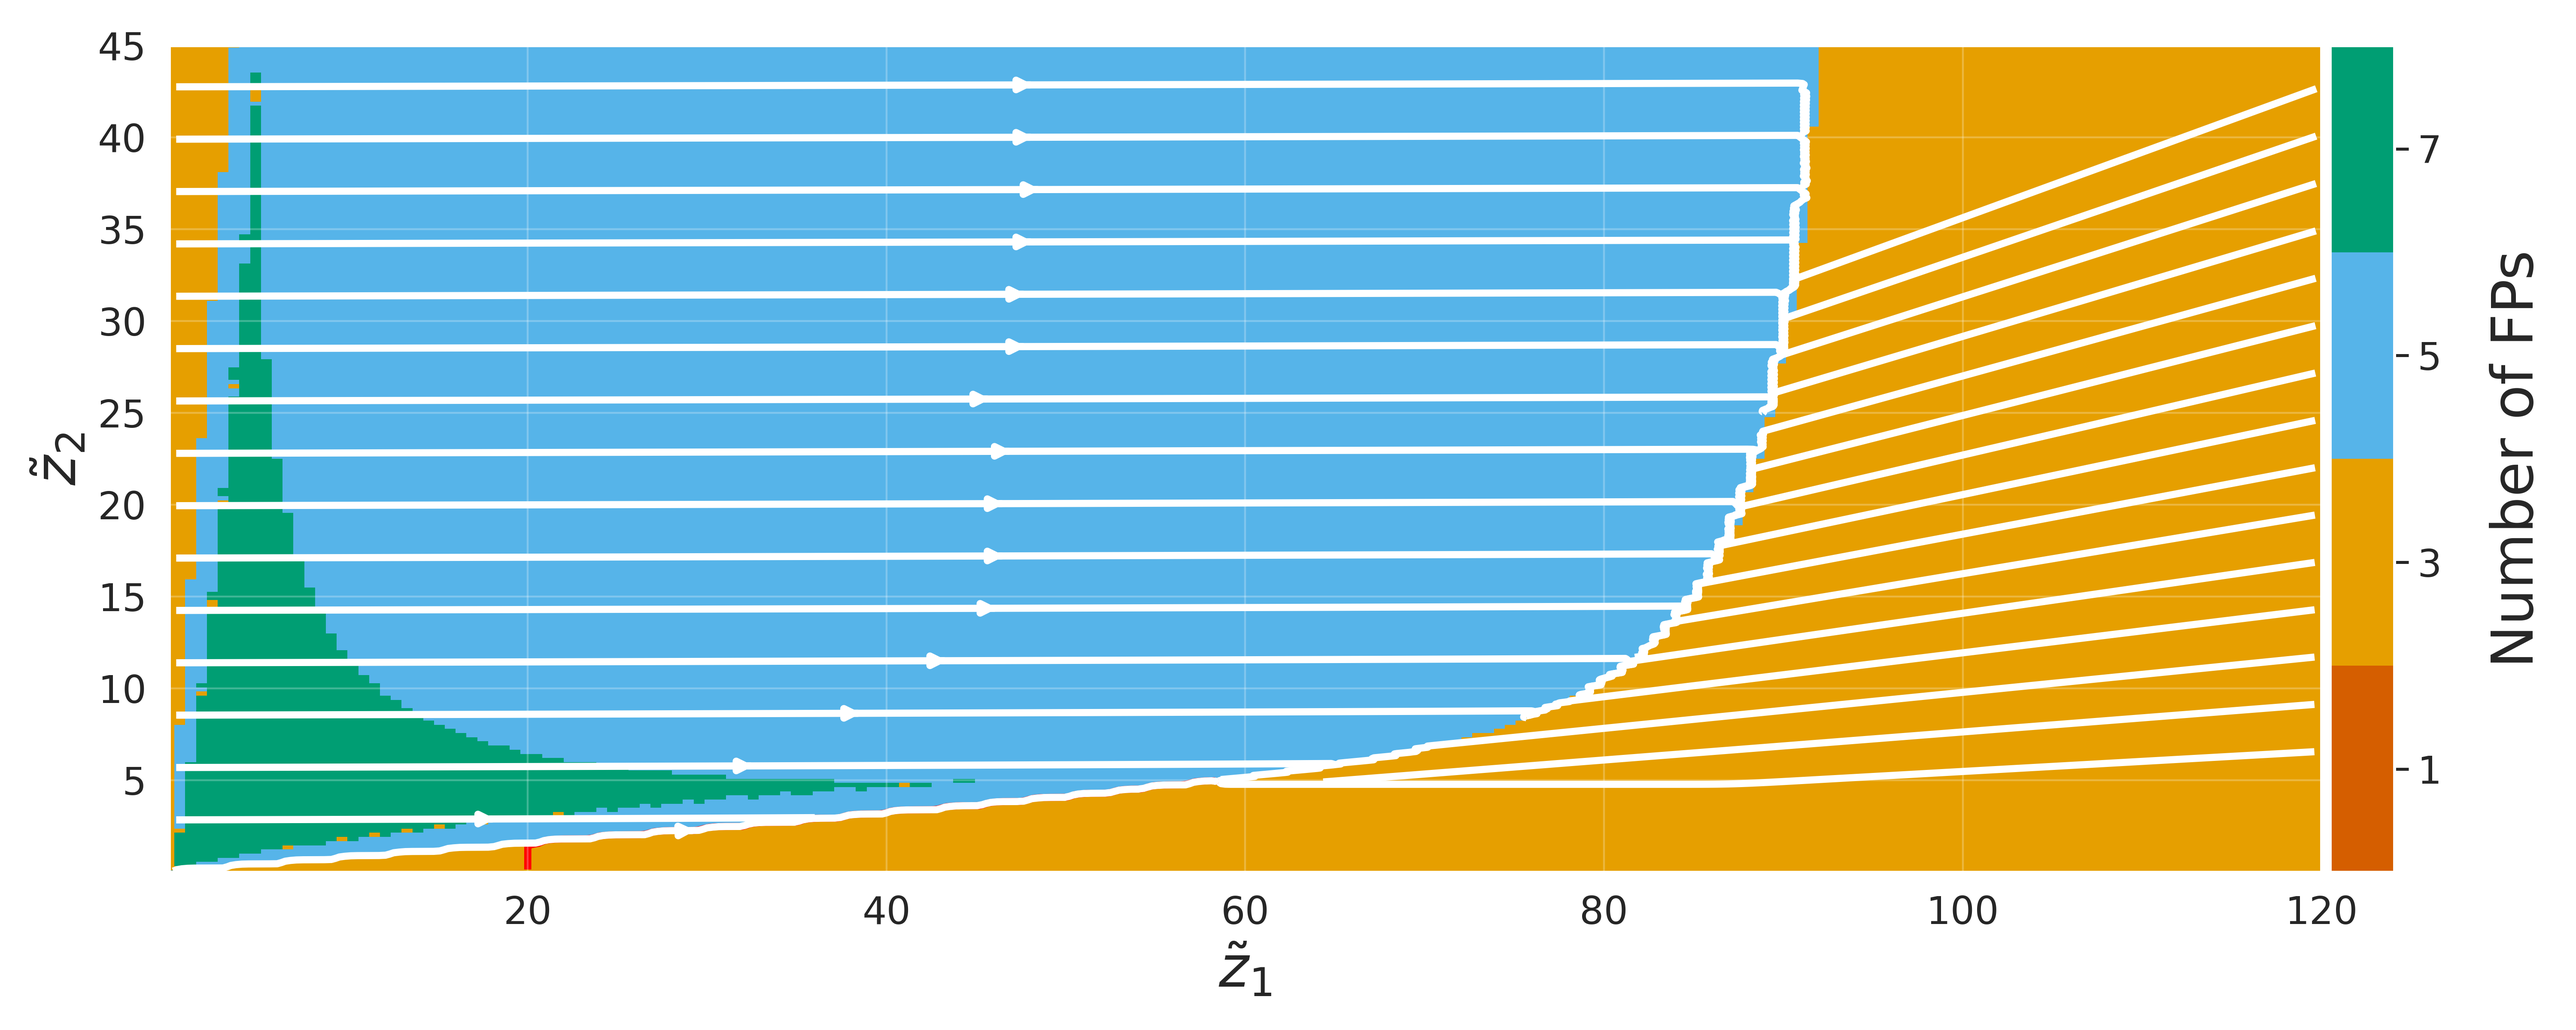
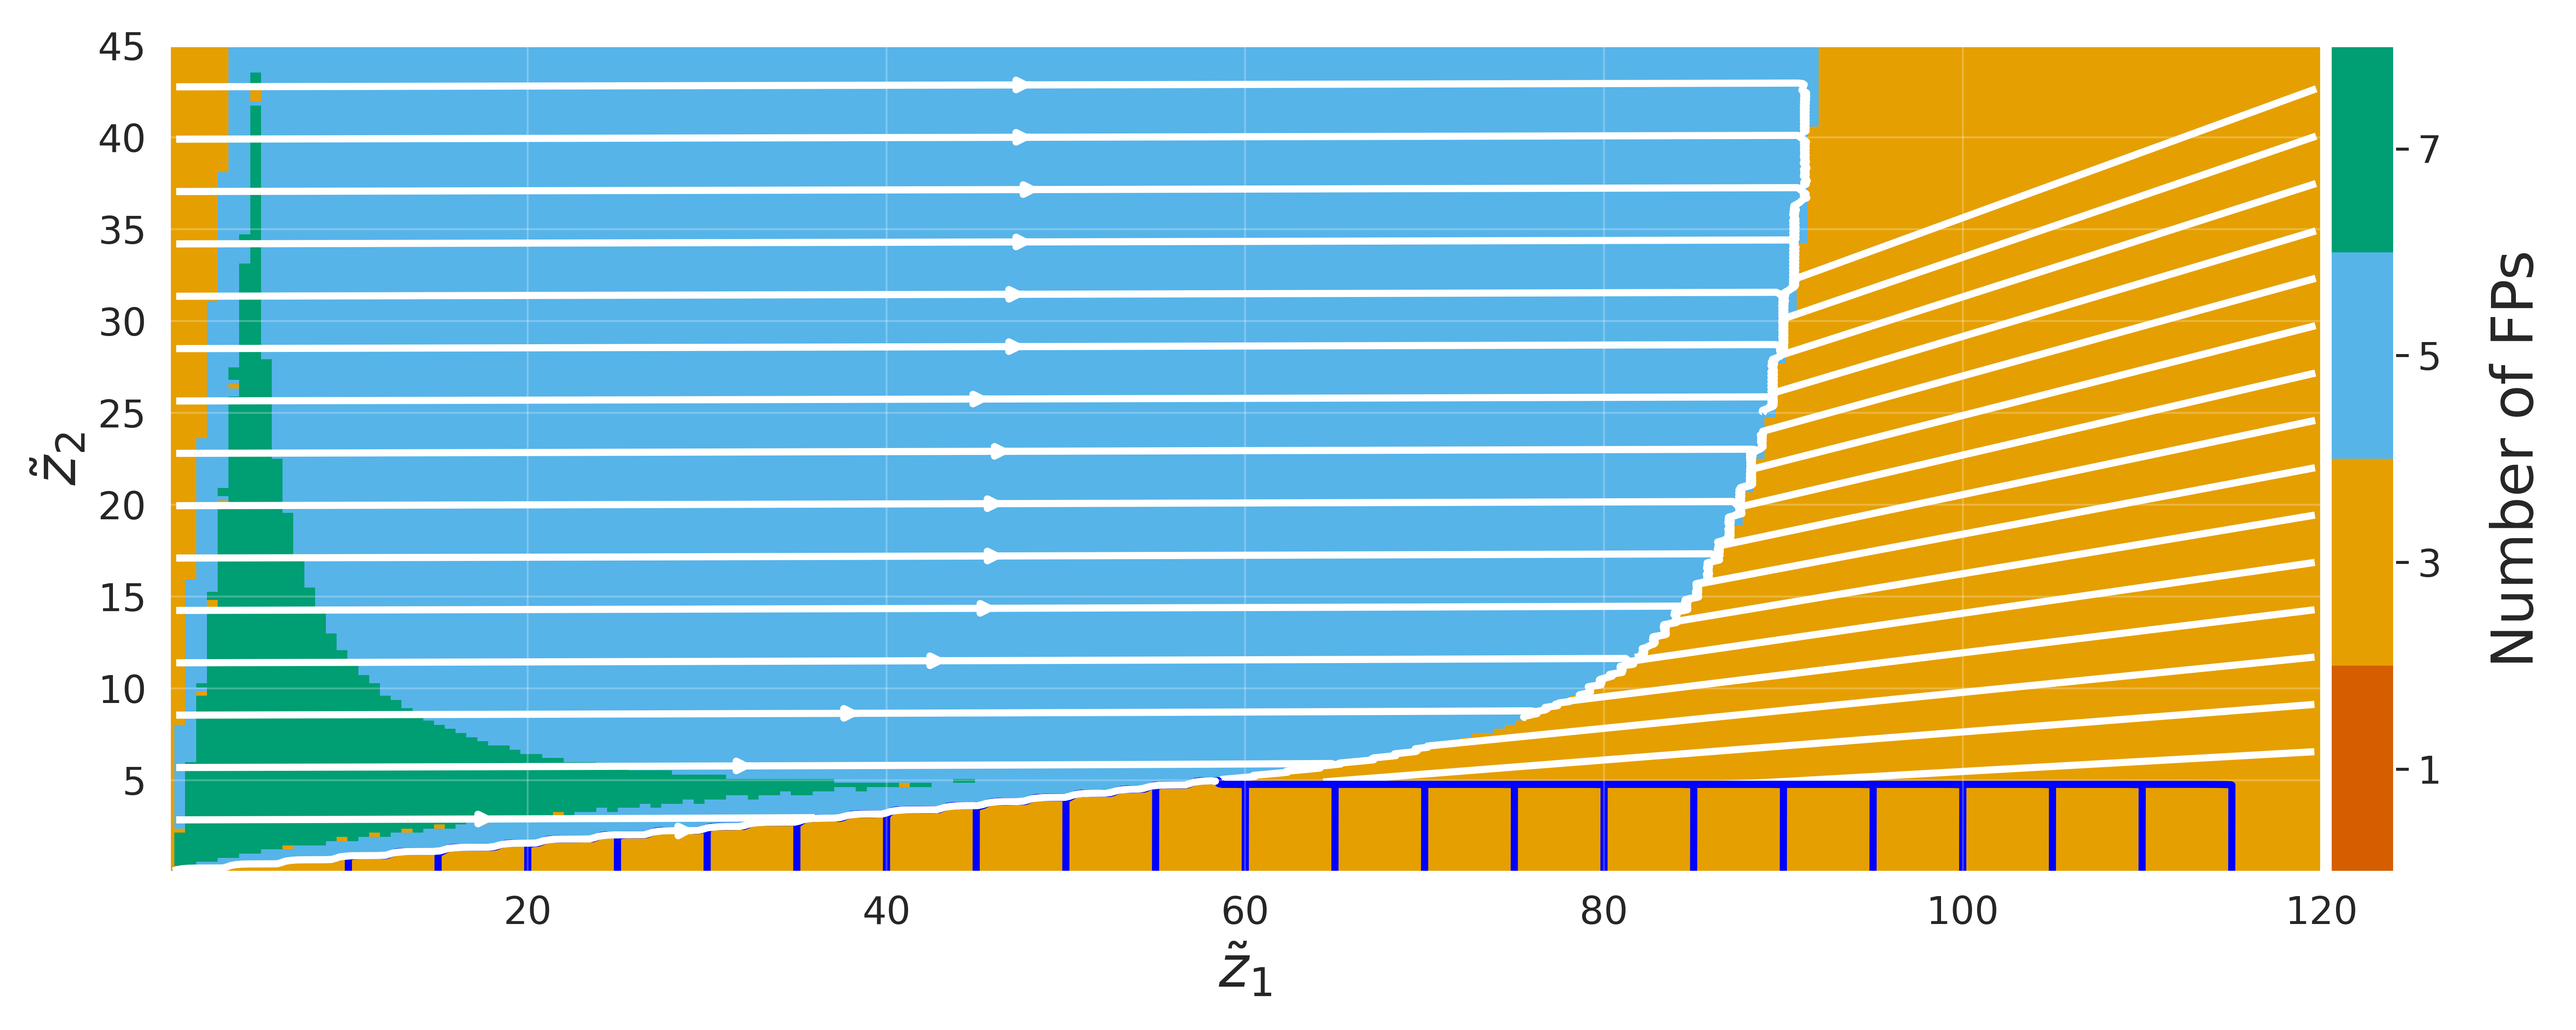
w_mu debug

Changed region(s): [[0.4675, 0.75, 0.8727, 0.7812], [0.2182, 0.8125, 0.2493, 0.8438]]

diff --git a/FigureCode/Fig4_wmu/B_simulate_triangle_growth.py b/FigureCode/Fig4_wmu/B_simulate_triangle_growth.py
@@ -17,16 +17,16 @@ import tqdm
 parser = argparse.ArgumentParser()
 parser.add_argument('--q', type=float, default=4.0)
 parser.add_argument('--seed', type=int, default=4)
-parser.add_argument('--filename', type=str, default="run_save_growth.npz")
+parser.add_argument('--filename', type=str, default="/localhome/nacer/data_4_wmu/run_save_growth.npz")
 args = parser.parse_args()
 
 def calculate_signals_t(X, XI, beta, gamma, mute_cells, w_mu):
     D_2 = calculate_distances(X, XI)
     S = calculate_signals(beta, D_2)
-    S_sum = (calculate_aggregate_signals(S, mute_cells) + gamma) * w_mu
+    S_sum = (calculate_aggregate_signals(S, mute_cells) + gamma)*w_mu
     return S_sum
 
-calculate_signals_all_t = jax.vmap(calculate_signals_t, in_axes=(0, None, None, None, 0))
+calculate_signals_all_t = jax.vmap(calculate_signals_t, in_axes=(0, None, None, None, 0, None))
 
 xi_x = 1.0
 xi_y = 1.3
@@ -37,10 +37,10 @@ q = args.q
 #w_mu = jnp.asarray([600.0, 60.0, 1.0])
 #w_mu = jnp.asarray([200.0, 20.0, 1.0]) 
 
-w_mu = jnp.asarray([20.0, 20.0, 1.0]) # 6 seems good
+w_mu = jnp.asarray([10.0, 10.0, 1.0]) # 6 seems good
 
 
-gamma = jnp.asarray([800.0, 2*150.0, 1.0])*q + 1E-5
+gamma = jnp.asarray([800.0, 150.0, 1.0])*q + 1E-5
 gamma = gamma / w_mu
 
 beta = 1.500 #1.5 
@@ -63,7 +63,7 @@ dt = 20
 
 from numpy.lib.format import open_memmap
 Xs_saves = open_memmap(
-    "Xs_saves.mmap", 
+    "/localhome/nacer/data_4_wmu/Xs_saves.mmap", 
     mode="w+", 
     dtype=np.float32, 
     shape=(tmax // dt, K, 2)
@@ -80,7 +80,7 @@ for i in tqdm.tqdm(range(0, N_TIME_CHUNKS)):
     mute_cells_ts_chunk = k <= t_chunk / a
 
     keys_chunk = keys[i * time_chunk_size: (i+1) * time_chunk_size]
-    Xs_saves_ = training_loop(X_0, X_STEM, XIs, betas=jnp.asarray([beta]), gamma=gamma, tmax=time_chunk_size, lr=0.02, noise_level=4.0,
+    Xs_saves_ = training_loop(X_0, X_STEM, XIs, betas=jnp.asarray([beta]), gamma=gamma, tmax=time_chunk_size, lr=0.02, noise_level=3.6,
                               keys=keys_chunk, mute_cells_ts=mute_cells_ts_chunk, w_mu=w_mu)
     X_0 = jnp.copy(Xs_saves_[-1])
 
@@ -88,7 +88,7 @@ for i in tqdm.tqdm(range(0, N_TIME_CHUNKS)):
     Xs_saves[i * time_chunk_size//dt: (i+1) * time_chunk_size//dt] = np.asarray(Xs_saves_[::dt], copy=True)
     Ss_saves[i * time_chunk_size//dt: (i+1) * time_chunk_size//dt] = np.asarray(calculate_signals_all_t(Xs_saves_[::dt], XIs,
                                                                                                         beta, gamma,
-                                                                                                        mute_cells_ts_chunk[::dt]),
+                                                                                                        mute_cells_ts_chunk[::dt], w_mu),
                                                                                 copy=True)
 Xs_saves.flush()
 

diff --git a/FigureCode/Fig4_wmu/A_catastrophe_plot_growth.py b/FigureCode/Fig4_wmu/A_catastrophe_plot_growth.py
@@ -98,9 +98,7 @@ n_x = 20
 
 starts_x0    = np.c_[np.full(n_y, X.min()),    np.linspace(Y.min(), Y.max()*0.95, n_y)]
 starts_x2000 = np.c_[np.full(n_y, X.max()), np.linspace(4, Y.max()*0.95, n_y)] # 4 is roughly the flip
-starts_y0    = np.c_[np.linspace(20, 25, n_x), np.full(n_x, Y.min())]
-print(starts_y0); exit();
-start_points = np.vstack([starts_x2000, starts_y0])
+
 
 ax.streamplot(
     X, Y, U, V,
@@ -113,17 +111,20 @@ ax.streamplot(
     integration_direction="forward"
 )
 
-
-ax.streamplot(
-    X, Y, U, V,
-    color="red",
-    linewidth=3,
-    start_points=starts_y0,
-    arrowsize=0.0,
-    density=1.0,
-    maxlength=10.0,
-    integration_direction="forward"
-)
+# matplotlib is really suboptimal.. workaround below
+for i in range(10, 130, 5):
+    n_x = 1
+    starts_y0    = np.c_[np.linspace(i, i+2, n_x), np.full(n_x, Y.min())]
+    ax.streamplot(
+        X, Y, U, V,
+        color="blue",
+        linewidth=3,
+        start_points=starts_y0,
+        arrowsize=0.0,
+        density=100.0,
+        maxlength=10.0,
+        integration_direction="forward"
+    )
 
 
 ax.streamplot(

diff --git a/FigureCode/Fig4_wmu/make_z_movie.py b/FigureCode/Fig4_wmu/make_z_movie.py
@@ -4,9 +4,14 @@ from multiprocessing import Pool
 from mpl_toolkits.axes_grid1 import make_axes_locatable
 sns.set_theme(palette="pastel")
 
-z = np.load("run_save_growth.npz")["Ss_saves"][::10]; z = z / z[:, -1][:, None]
+z = np.load("/localhome/nacer/data_4_wmu/run_save_growth.npz")["Ss_saves"][::10]; 
+#z = np.load("../Fig4/run_save_growth.npz")["Ss_saves"][::10]; 
+z = z / z[:, -1][:, None]
 d = np.load("data_catastrophe_2/catastrophe_data_growth.npz")
 zm, n = d["z_mus"], int(d["size_gamma"])
+w_mu = d["w_mu"]
+zm = zm*w_mu[None, :]
+
 N_pp = np.ceil((d["N_fps_space"] - 1) / 2.0)  # keep only odd FP counts
 cmap = mc.ListedColormap(["#D55E00", "#E69F00", "#56B4E9", "#009E73"])
 DPI = 150  # 400 gives 6000x2400 frames (~58 MB each); raise it if you really need it

diff --git a/FigureCode/Fig4_wmu/make_cells_movie.py b/FigureCode/Fig4_wmu/make_cells_movie.py
@@ -1,6 +1,6 @@
 import numpy as np, subprocess as sp, matplotlib; matplotlib.use("Agg"); import matplotlib.pyplot as plt
 from multiprocessing import Pool
-X = np.load("Xs_saves.mmap", mmap_mode="r")[::10]; S = np.asarray(X[::100]); K = X.shape[1]
+X = np.load("/localhome/nacer/data_4_wmu/Xs_saves.mmap", mmap_mode="r")[::10]; S = np.asarray(X[::100]); K = X.shape[1]
 
 def init():  # runs once per worker: each worker builds its own figure
     global fig, sc

diff --git a/FigureCode/Fig4_wmu/B_catastrophe_trajectory_growth_plot.py b/FigureCode/Fig4_wmu/B_catastrophe_trajectory_growth_plot.py
@@ -11,7 +11,7 @@ import seaborn as sns
 
 tmin = 0
 #data_h = np.load("/localhome/nacer/SignalDiff_data/SLURM/run_save_growth_h_q4.0_seed4.npz")
-data_h = np.load("run_save_growth.npz")
+data_h = np.load("/localhome/nacer/data_4_wmu/run_save_growth.npz")
 Ss_saves_h = data_h['Ss_saves']#100000
 tmax = len(Ss_saves_h)
 

diff --git a/FigureCode/Fig4_wmu/C_dynamical_trajectories.py b/FigureCode/Fig4_wmu/C_dynamical_trajectories.py
@@ -16,7 +16,7 @@ def get_spatial_indices(data, eps):
     return np.unique(np.append(indices, len(data) - 1))
 
 
-Xs_saves_all = np.load("Xs_saves.mmap", mmap_mode="r")[:80000, :] #70000
+Xs_saves_all = np.load("/localhome/nacer/data_4_wmu/Xs_saves.mmap", mmap_mode="r")[:80000, :] #70000
 
 
 #Xs_saves_all = Xs_saves

diff --git a/FigureCode/Fig4_wmu/A_calc_catastrophe.py b/FigureCode/Fig4_wmu/A_calc_catastrophe.py
@@ -117,6 +117,8 @@ z_mus = jnp.ones((size_gamma**2, 3))
 z_mus = z_mus.at[:, 0].set(z_mus_x.ravel())
 z_mus = z_mus.at[:, 1].set(z_mus_y.ravel())
 
+
+
 blocksize=len(z_mus)//500
 
 gamma = 0
